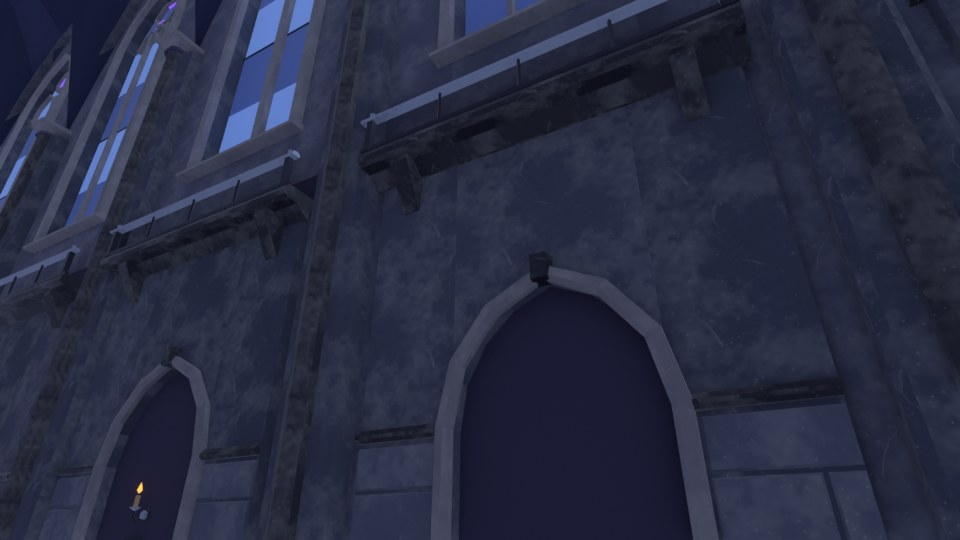
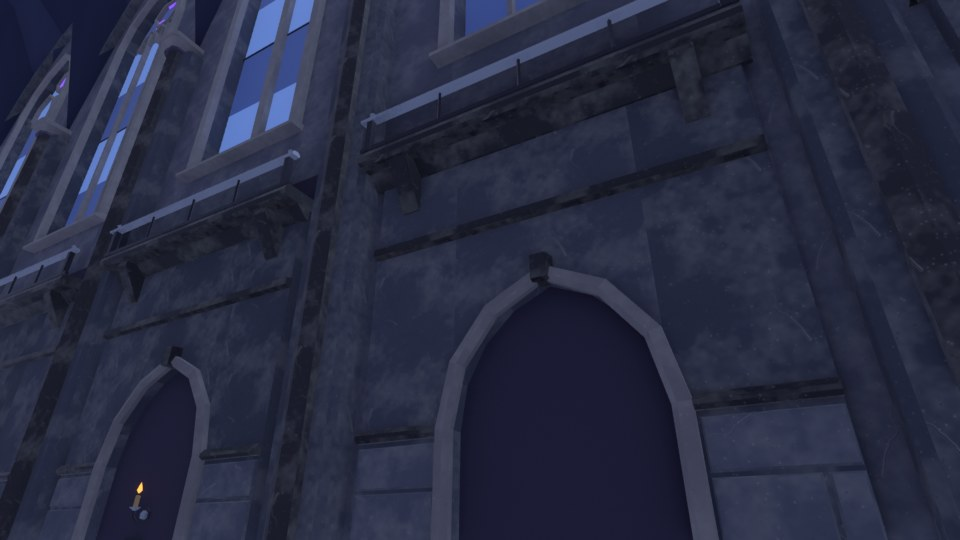
Ilha 3 finesse3: salao concluido (agente H)
Abobada com arcos-diafragma, diagonais, cumeeira e chaves com secao real,
panos em fiadas de 2 valores de pedra abaixo das nervuras claras e
penumbra so junto do arranque; parede do fundo e contra-fachada com
arcada cega em 2 registros e rosaceas; arco triunfal com arquivoltas;
tapete com bordadura; estrela de pedra no lugar do crescente do piso;
lajes com faixas nas linhas dos pilares; bases aticas; nichos em 4 tipos
nas naves laterais; vitrais com rendilhado; lustres na escala da nave;
trono, presbiterio, arco secreto e bolso acabados. Zona hall
87.926/88.000 tris; build OK (ilha 869.427 tris) e QA verde.

Claude-Session: https://claude.ai/code/session_012BgKANZEUaMLtrqiobzfLM

diff --git a/ilha_shadowgarden/sg_hall.py b/ilha_shadowgarden/sg_hall.py
@@ -47,8 +47,10 @@ import sg_emblem as EM
 S = fm_lib.S
 # ------------------------------------------------------------------ materiais novos da zona
 NEW_MATS = {
-    "Slate_SGHallVault": (S(58, 62, 94), 0.85, 0.0, 0, None, 0.0),        # panos da abobada: um valor acima do navy (F3 07.01)
-    "Slate_SGHallVaultJoint": (S(44, 48, 78), 0.85, 0.0, 0, None, 0.0),   # fiada alternada dos panos (2 valores, largas)
+    "Slate_SGHallVault": (S(88, 91, 104), 0.85, 0.0, 0, None, 0.06),      # fiada B dos panos = valor do Stone_SG_Block (a
+                                                                           # fiada A e o Stone_SG_Block_B): pedra, 1-2 valores
+                                                                           # abaixo das nervuras (revisao 07.01)
+    "Slate_SGHallVaultJoint": (S(64, 67, 84), 0.85, 0.0, 0, None, 0.06),  # PENUMBRA: so a faixa logo acima do arranque
     "Glass_SGHallNight": (S(58, 76, 138), 0.4, 0.0, 0.25, S(70, 95, 170), 0.0),    # 2a cor dos vitrais: azul-noite
     "Slate_SGHallNiche": (S(58, 50, 76), 0.8, 0.0, 0, None, 0.0),         # fundo dos nichos / galeria: pedra lisa escura
     "Wax_SGHallCandle": (S(212, 170, 116), 0.7, 0.0, 0, None, 0.0),       # cera CREME QUENTE
@@ -1165,6 +1167,11 @@ def bay_wall(mb, W, sa, sb, niches, top, iw, cord_cut=(), PL=4.4):
         if b - a > 0.3:
             ledge(mb, WT(W, PF), a, b, drip(Z + CORD, 0.36, 0.5), OBS)
     ledge(mb, W, sa, sb, plinth(Z - 0.05, Z + 0.95, PF + 0.3, PF + 0.12), OBS)
+    # 2o CORDAO (+17,6) acima dos nichos: parte o pano entre o cordao e a galeria em 2 registros (07.07)
+    if top - Z > 18.5:
+        zc_ = Z + 17.6
+        ledge(mb, WT(W, PF), sa, sb, [(-0.05, zc_ - 0.3), (0.32, zc_ - 0.18), (0.32, zc_ + 0.2), (-0.05, zc_ + 0.3)],
+              OBS)
     for cs, kind, dbl in niches:
         niche(mb, W, cs, kind, dbl, iw)
 
@@ -1476,16 +1483,27 @@ def rosette(mb, cx, cy, zt, R, dep, m, petals=8, n=24, flat=0.0):
     mb._post(allv, m, None, 0, 1)
 
 
-def _grid_rows(pv, xs, ys, fz, mats):
+def _grid_rows(pv, xs, ys, fz, mats, shade=None):
     """superficie em grade com FIADAS: cada linha (ys[j]..ys[j+1]) e uma tira com vertices proprios e o material
-    alternado (2 valores: fiadas largas que leem no Roblox sem textura)"""
+    alternado (2 valores proximos: fiadas largas que leem no Roblox sem textura). shade(x) = True: a coluna fica no
+    material de PENUMBRA (VJ), so a faixa junto do arranque; mesma malha (so muda o material das faces)"""
     bm = pv.bm
     for j in range(len(ys) - 1):
-        A = [bm.verts.new((x, ys[j], Z + fz(x, ys[j]))) for x in xs]
-        B = [bm.verts.new((x, ys[j + 1], Z + fz(x, ys[j + 1]))) for x in xs]
+        groups, cur = [], None
         for i in range(len(xs) - 1):
-            bm.faces.new((A[i], B[i], B[i + 1], A[i + 1]))
-        pv._post(A + B, mats[j % len(mats)], None, 0, 1)
+            dk = bool(shade and shade(0.5 * (xs[i] + xs[i + 1])))
+            if cur is None or cur[0] != dk:
+                cur = [dk, [i]]
+                groups.append(cur)
+            else:
+                cur[1].append(i)
+        for dk, cols in groups:
+            ii = cols + [cols[-1] + 1]
+            A = [bm.verts.new((xs[i], ys[j], Z + fz(xs[i], ys[j]))) for i in ii]
+            B = [bm.verts.new((xs[i], ys[j + 1], Z + fz(xs[i], ys[j + 1]))) for i in ii]
+            for k in range(len(ii) - 1):
+                bm.faces.new((A[k], B[k], B[k + 1], A[k + 1]))
+            pv._post(A + B, VJ if dk else mats[j % len(mats)], None, 0, 1)
 
 
 def _vault_ys(per=3.0):
@@ -1506,14 +1524,14 @@ def vault():
     K = 7
     half = [NHW * math.sin(0.5 * math.pi * k / K) for k in range(K + 1)]
     xs = sorted(set([-v for v in half] + half))
-    _grid_rows(pv, xs, ys, zv, (VA, VJ))
+    _grid_rows(pv, xs, ys, zv, (ASH, VA), shade=lambda x: abs(x) > NHW * 0.93)
     for s in (-1, 1):
         axs = sorted(s * (AIN + 6.0 * k) for k in range(5))
-        _grid_rows(pv, axs, ys, za, (VA, VJ))
+        _grid_rows(pv, axs, ys, za, (ASH, VA), shade=lambda x: abs(x) > X1 - 6.0)
     # presbiterio: canhao ogival com o perfil da ordem externa do arco triunfal
     cxs = [20.0 * (-1.0 + 2.0 * k / 16) for k in range(17)]
     cys = [CH_Y0 + (RY0 - CH_Y0) * k / 8.0 for k in range(9)]
-    _grid_rows(pv, cxs, cys, lambda x, y: chancel_z(x), (VA, VJ))
+    _grid_rows(pv, cxs, cys, lambda x, y: chancel_z(x), (ASH, VA), shade=lambda x: abs(x) > 17.6)
     for f in bm.faces:
         f.normal_update()
         if f.normal.z > 0:
@@ -1532,8 +1550,7 @@ PROF_DIA = [(-1.5, 0.12), (1.5, 0.12), (1.5, -0.55), (0.8, -0.55), (0.8, -1.1), 
 PROF_RIB = [(-0.75, 0.12), (0.75, 0.12), (0.75, -0.35), (0.55, -0.8), (0.0, -1.1), (-0.55, -0.8), (-0.75, -0.35)]
 PROF_RIB_S = [(-0.45, 0.12), (0.45, 0.12), (0.45, -0.3), (0.0, -0.72), (-0.45, -0.3)]      # naves laterais 0,9
 PROF_WALL = [(-0.5, 0.12), (0.5, 0.12), (0.5, -0.8), (-0.5, -0.8)]                          # formeiro
-TORO = [(0.5 * math.cos(2 * math.pi * i / 5 + math.pi / 2), -1.25 + 0.5 * math.sin(2 * math.pi * i / 5 + math.pi / 2))
-        for i in range(5)]
+TORO = [(0.5 * math.cos(2 * math.pi * i / 4), -1.25 + 0.5 * math.sin(2 * math.pi * i / 4)) for i in range(4)]
 
 
 def ribs():
@@ -1550,11 +1567,11 @@ def ribs():
                     [-x_end * math.sin(0.5 * math.pi * k / 5) for k in range(6)]))
     for y in VAULT_Y:
         if Y0 < y < Y1:
-            rib([(x, y) for x in tx], PROF_DIA, CS, zv)
-            rib([(x, y) for x in tx], TORO, CAPL, zv)
+            rib([(x, y) for x in tx], PROF_DIA, CAPL, zv)
+            rib([(x, y) for x in tx], TORO, TR, zv)
         else:
             yy = min(max(y, Y0 + 0.55), Y1 - 0.55)
-            rib([(x, yy) for x in tx], PROF_WALL, CS, zv)
+            rib([(x, yy) for x in tx], PROF_WALL, CAPL, zv)
     nd = 7
     for ya, yb in zip(VAULT_Y, VAULT_Y[1:]):
         if yb - ya < 15.0:
@@ -1566,15 +1583,15 @@ def ribs():
     rib([(0.0, Y0 + 0.55), (0.0, (Y0 + Y1) / 2.0), (0.0, Y1 - 0.55)], PROF_RIB, CAPL, zv)
     ys = _vault_ys(7.0)
     for s in (-1, 1):
-        rib([(s * (NHW - 0.42), y) for y in ys], PROF_WALL, CS, zv)
-        rib([(s * (AIN + 0.4), y) for y in ys], PROF_WALL, CS, za)
-        rib([(s * (X1 - 0.42), y) for y in ys], PROF_WALL, CS, za)
+        rib([(s * (NHW - 0.42), y) for y in ys], PROF_WALL, CAPL, zv)
+        rib([(s * (AIN + 0.4), y) for y in ys], PROF_WALL, CAPL, za)
+        rib([(s * (X1 - 0.42), y) for y in ys], PROF_WALL, CAPL, za)
     # NAVES LATERAIS: transversais e diagonais
     for s in (-1, 1):
         axs = [s * (AIN + 0.4 + (X1 - AIN - 0.8) * k / 6.0) for k in range(7)]
         for y in VAULT_Y:
             yy = min(max(y, Y0 + 0.55), Y1 - 0.55)
-            rib([(x, yy) for x in axs], PROF_RIB_S if Y0 < y < Y1 else PROF_WALL, CAPL if Y0 < y < Y1 else CS, za)
+            rib([(x, yy) for x in axs], PROF_RIB_S if Y0 < y < Y1 else PROF_WALL, CAPL, za)
     # CHAVES esculpidas: florao grande com pendente nas linhas dos pilares (diafragma x cumeeira), florao no meio de
     # cada tramo (cruzamento das diagonais) e nas naves laterais
     for y in AY:
@@ -2198,7 +2215,7 @@ def chandelier(mb, x, y, s=CH_S):
     h = Z + CHAND_H
     R, R2 = 4.4 * s, 2.6 * s
     h2 = h + 3.1 * s
-    for rr, hh, n, rt in ((R, h, 12, 0.14), (R2, h2, 8, 0.11)):
+    for rr, hh, n, rt in ((R, h, 10, 0.14), (R2, h2, 8, 0.11)):
         mb.tube([(x + rr * math.cos(2 * math.pi * k / n), y + rr * math.sin(2 * math.pi * k / n), hh) for k in
                  range(n + 1)], rt * s, IRONL, 5)
 
